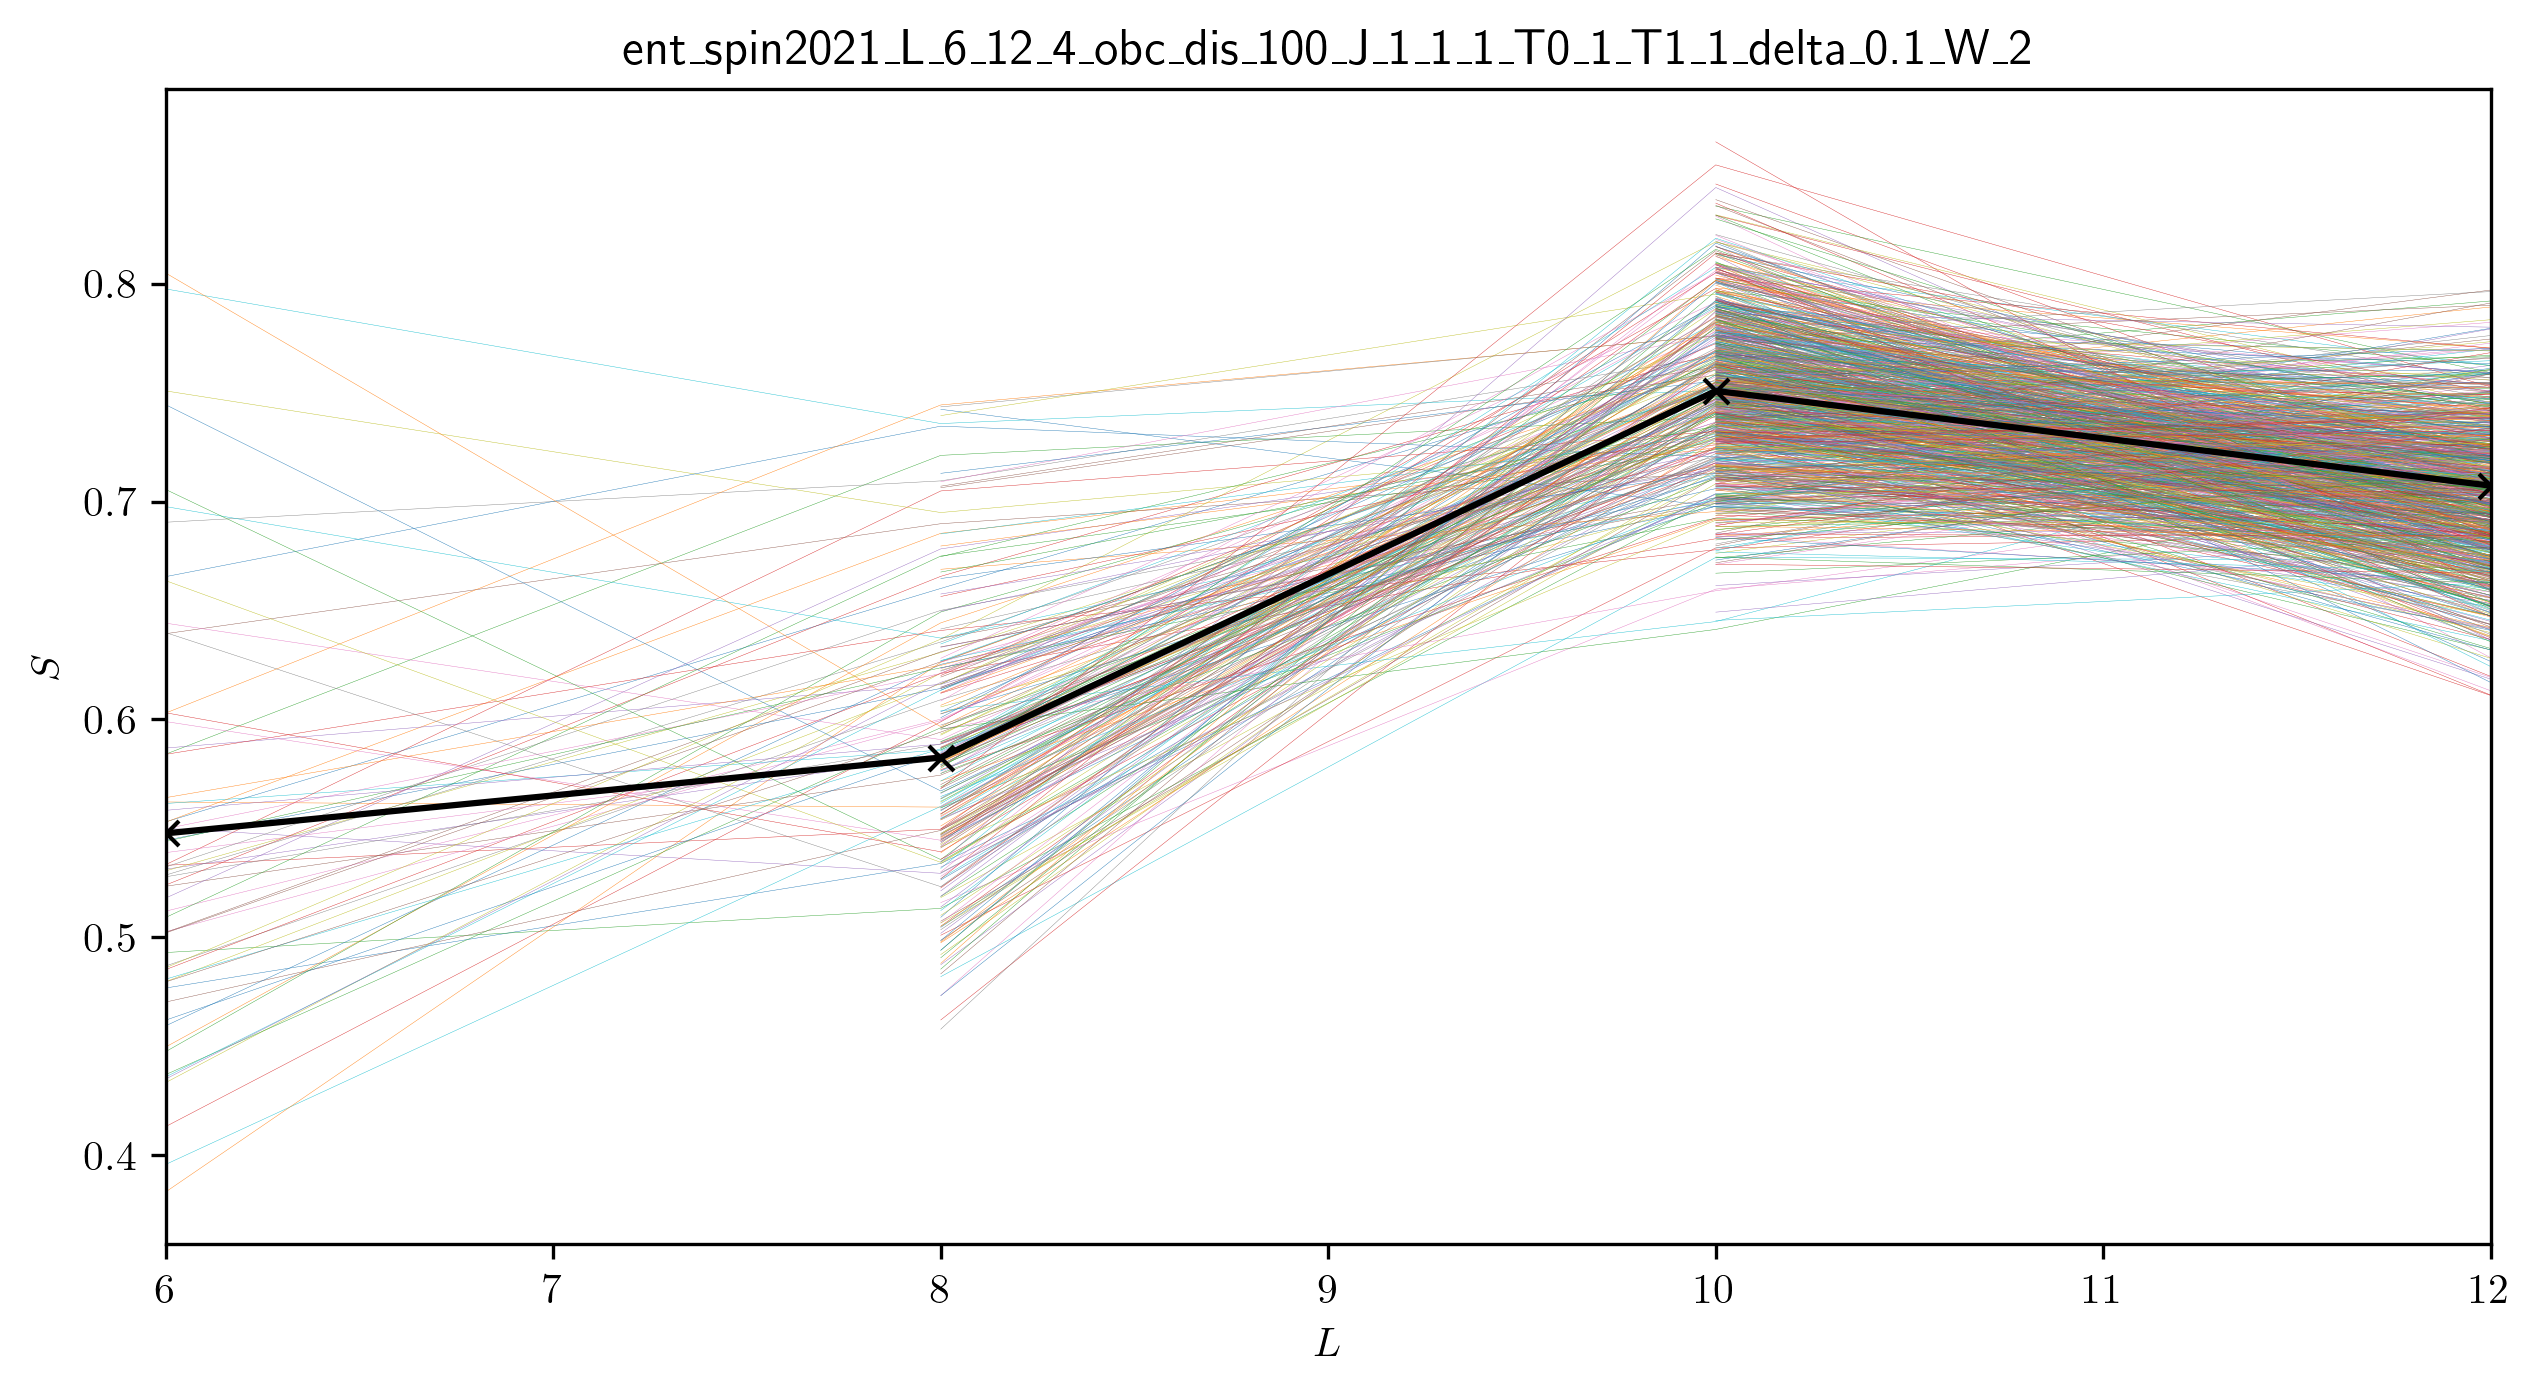
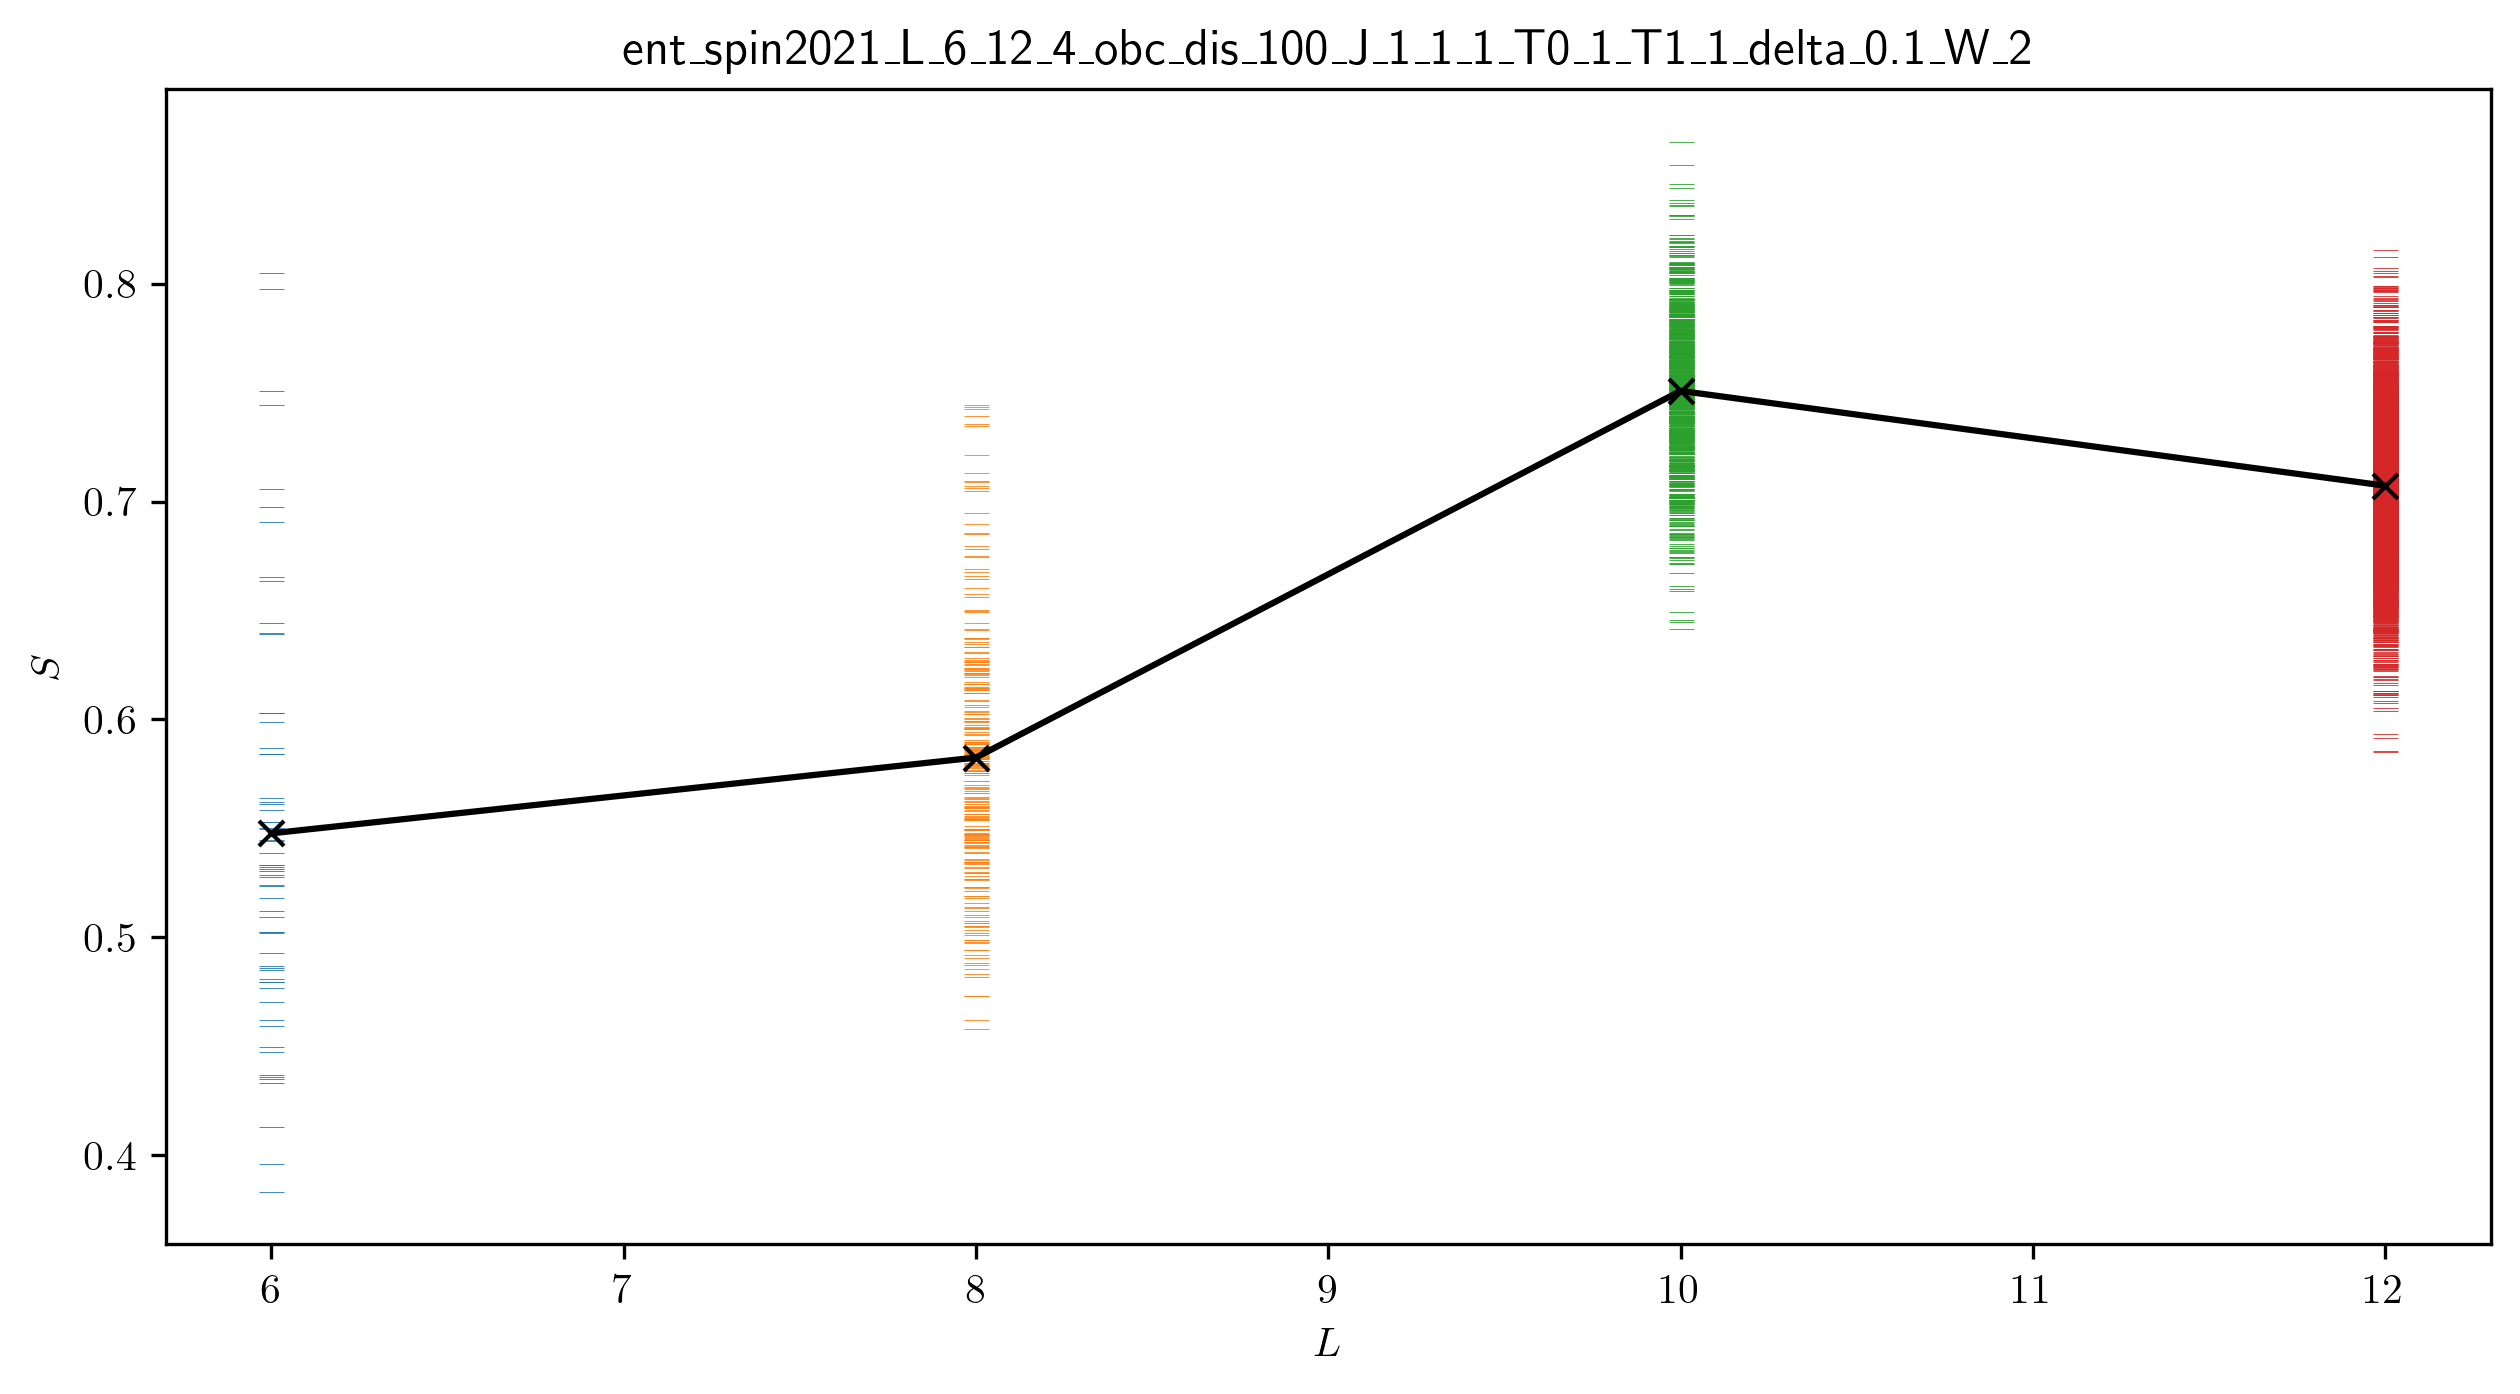
improved ent_delta_flow and ent_L_flow plots

diff --git a/plot/ent_delta_flow.py b/plot/ent_delta_flow.py
@@ -82,13 +82,14 @@ def plot_ent_delta_flow(_model, _file1, _file2=None, _file3=None, _file4=None, _
     plt.figure(figsize=(10, 5))
     ax0 = plt.subplot(111)
     if _multi:
-        for j in range(ncol):
-            ax0.plot(delta, ent[:, j], '-', lw=0.1)
+        for j, delta_val in enumerate(delta):
+            ax0.plot([delta_val]*np.shape(ent)[1], ent[j, :], '_', markeredgewidth=0.2, c=f"C{j}")
         ax0.plot(delta, mean_ent, 'x-', c='k')
     else:
-        ax0.plot(delta, mean_ent, '.-', label="$L=6$")
+        for j, delta_val in enumerate(delta):
+            ax0.errorbar(delta_val, np.mean(ent[j, :]), yerr=np.std(ent[j, :]), capsize=2, c="C0")
+        ax0.plot(delta, mean_ent, '.-', label="$L=6$", c="C0")
     ax0.set_xlabel("$\delta$")
-    ax0.set_xlim([0, 1])
     ax0.xaxis.set_major_formatter(FormatStrFormatter('$%g$'))
     ax0.set_ylabel("$S$")
     ax0.yaxis.set_major_formatter(FormatStrFormatter('$%g$'))
@@ -108,7 +109,9 @@ def plot_ent_delta_flow(_model, _file1, _file2=None, _file3=None, _file4=None, _
                 for j in range(ncol):
                     ent2[i][j] = float(row[j + 1])
             mean_ent2 = np.mean(ent2, axis=1)
-        ax0.plot(delta2, mean_ent2, '.-', label="$L=8$")
+        for j, delta2_val in enumerate(delta2):
+            ax0.errorbar(delta2_val, np.mean(ent2[j, :]), yerr=np.std(ent2[j, :]), capsize=2, c="C1")
+        ax0.plot(delta2, mean_ent2, '.-', label="$L=8$", c="C1")
     if _file3 is not None:
         with open(os.path.join(proj_root, 'data/ent_delta_flow', _model, _file3), 'r') as csvfile:
             plots = csv.reader(csvfile, delimiter='\t')
@@ -123,7 +126,9 @@ def plot_ent_delta_flow(_model, _file1, _file2=None, _file3=None, _file4=None, _
                 for j in range(ncol):
                     ent3[i][j] = float(row[j + 1])
             mean_ent3 = np.mean(ent3, axis=1)
-        ax0.plot(delta3, mean_ent3, '.-', label="$L=10$")
+        for j, delta3_val in enumerate(delta3):
+            ax0.errorbar(delta3_val, np.mean(ent3[j, :]), yerr=np.std(ent3[j, :]), capsize=2, c="C2")
+        ax0.plot(delta3, mean_ent3, '.-', label="$L=10$", c="C2")
     if _file4 is not None:
         with open(os.path.join(proj_root, 'data/ent_delta_flow', _model, _file4), 'r') as csvfile:
             plots = csv.reader(csvfile, delimiter='\t')
@@ -138,13 +143,15 @@ def plot_ent_delta_flow(_model, _file1, _file2=None, _file3=None, _file4=None, _
                 for j in range(ncol):
                     ent4[i][j] = float(row[j + 1])
             mean_ent4 = np.mean(ent4, axis=1)
-        ax0.plot(delta4, mean_ent4, '.-', label="$L=12$")
+        for j, delta4_val in enumerate(delta4):
+            ax0.errorbar(delta4_val, np.mean(ent4[j, :]), yerr=np.std(ent4[j, :]), capsize=2, c="C3")
+        ax0.plot(delta4, mean_ent4, '.-', label="$L=12$", c="C3")
 
     if not _multi:
         ax0.legend(loc='upper left')
 
     if _save:
-        if _file2 is None and _file3 is None and _file4 is not None:
+        if _file2 is None and _file3 is None and _file4 is None:
             os.makedirs(os.path.join(proj_root, 'figures/ent_delta_flow', _model), exist_ok=True)
             plt.savefig(os.path.join(proj_root, 'figures/ent_delta_flow', _model,
                                      _file1.replace(".dat", "")+".png"),
@@ -161,9 +168,9 @@ def plot_ent_delta_flow(_model, _file1, _file2=None, _file3=None, _file4=None, _
 if __name__ == "__main__":
 
     model = 'spin2021'
-    file1 = 'ent_delta_flow_spin2021_L_6_obc_dis_100_J_1_1_1_T0_1_T1_1_delta_0_1_11_W_2.dat.new'
-    # file2 = 'ent_delta_flow_spin2021_L_8_obc_dis_100_J_1_1_1_T0_1_T1_1_delta_0_1_11_W_2.dat'
-    # file3 = 'ent_delta_flow_spin2021_L_10_obc_dis_100_J_1_1_1_T0_1_T1_1_delta_0_1_11_W_2.dat'
-    # file4 = 'ent_delta_flow_spin2021_L_12_obc_dis_100_J_1_1_1_T0_1_T1_1_delta_0_1_11_W_2.dat'
+    file1 = 'ent_delta_flow_spin2021_L_6_obc_dis_100_J_1_1_1_T0_1_T1_1_delta_0_1_11_W_2.dat'
+    file2 = 'ent_delta_flow_spin2021_L_8_obc_dis_100_J_1_1_1_T0_1_T1_1_delta_0_1_11_W_2.dat'
+    file3 = 'ent_delta_flow_spin2021_L_10_obc_dis_100_J_1_1_1_T0_1_T1_1_delta_0_1_11_W_2.dat'
+    file4 = 'ent_delta_flow_spin2021_L_12_obc_dis_100_J_1_1_1_T0_1_T1_1_delta_0_1_11_W_2.dat'
 
-    plot_ent_delta_flow(model, file1, _multi=False, _save=False, _h5_file=False)
+    plot_ent_delta_flow(model, file1, file2, file3, file4, _multi=False, _save=True, _h5_file=False)

diff --git a/plot/ent_L_flow.py b/plot/ent_L_flow.py
@@ -39,13 +39,12 @@ def plot_ent_L_flow(_model, _file1, _file2=None, _file3=None, _file4=None, _mult
     plt.figure(figsize=(10, 5))
     ax0 = plt.subplot(111)
     if _multi:
-        for j in range(ncol):
-            ax0.plot(L, ent[:, j], '-', lw=0.1)
+        for j, L_val in enumerate(L):
+            ax0.plot([L_val]*np.shape(ent)[1], ent[j, :], '_', markeredgewidth=0.2, c=f"C{j}")
         ax0.plot(L, mean_ent, 'x-', c='k')
     else:
         ax0.plot(L, mean_ent, '.-', label="$\delta=0.1$")
     ax0.set_xlabel("$L$")
-    ax0.set_xlim([min(L), max(L)])
     ax0.xaxis.set_major_formatter(FormatStrFormatter('$%g$'))
     ax0.set_ylabel("$S$")
     ax0.yaxis.set_major_formatter(FormatStrFormatter('$%g$'))
@@ -118,9 +117,9 @@ def plot_ent_L_flow(_model, _file1, _file2=None, _file3=None, _file4=None, _mult
 if __name__ == "__main__":
 
     model = 'spin2021'
-    file1 = 'ent_L_flow_spin2021_L_6_24_10_Nup_1_1_10_obc_dis_100_J_1_1_1_T0_1_T1_1_delta_0.1_W_2.dat'
+    file1 = 'ent_L_flow_spin2021_L_6_12_4_obc_dis_100_J_1_1_1_T0_1_T1_1_delta_0.1_W_2.dat'
     # file2 = 'ent_L_flow_spin2021_L_8_obc_dis_100_J_1_1_1_T0_1_T1_1_delta_0_1_11_W_2.dat'
     # file3 = 'ent_L_flow_spin2021_L_10_obc_dis_100_J_1_1_1_T0_1_T1_1_delta_0_1_11_W_2.dat'
     # file4 = 'ent_L_flow_spin2021_L_12_obc_dis_100_J_1_1_1_T0_1_T1_1_delta_0_1_11_W_2.dat'
 
-    plot_ent_L_flow(model, file1, _multi=True, _save=True)
+    plot_ent_L_flow(model, file1, _multi=True, _save=False)

diff --git a/README.rst b/README.rst
@@ -5,6 +5,11 @@ A numerical toolbox to distinguish between ergodic and localized phases in quant
 
 Prerequisites: Python 3.7.6+, QuSpin 0.3.6+
 
+1. `Static Systems`_
+2. `Driven Systems`_
+3. `Hoffman2 Cluster`_
+4. `References`_
+
 Static Systems
 --------------
 
@@ -254,9 +259,13 @@ With ``v=0`` in the initial Bloch state.
 
 * **ent_delta_flow** -- entanglement entropy delta evolution
 
-``python code/delta_flow.py -mod spin2021 -dis 100 -L 10 -bc o -T0 1 -T1 1 -W 2 -delta_min 0 -delta_max 1 -delta_samp 11``
+``python code/delta_flow.py -mod spin2021 -dis 100 -L 12 -bc o -T0 1 -T1 1 -W 2 -delta_min 0 -delta_max 1 -delta_samp 11``
 
-.. image:: figures/ent_delta_flow/spin2021/ent_delta_flow_spin2021_L_10_obc_dis_100_J_1_1_1_T0_1_T1_1_delta_0_1_11_W_2.png
+.. image:: figures/ent_delta_flow/spin2021/ent_delta_flow_spin2021_L_12_obc_dis_100_J_1_1_1_T0_1_T1_1_delta_0_1_11_W_2.png
+	:align: center
+	:width: 80%
+
+.. image:: figures/ent_delta_flow/spin2021/ent_delta_flow_spin2021_L_6_obc_dis_100_J_1_1_1_T0_1_T1_1_delta_0_1_11_W_2_comparison.png
 	:align: center
 	:width: 80%
 
